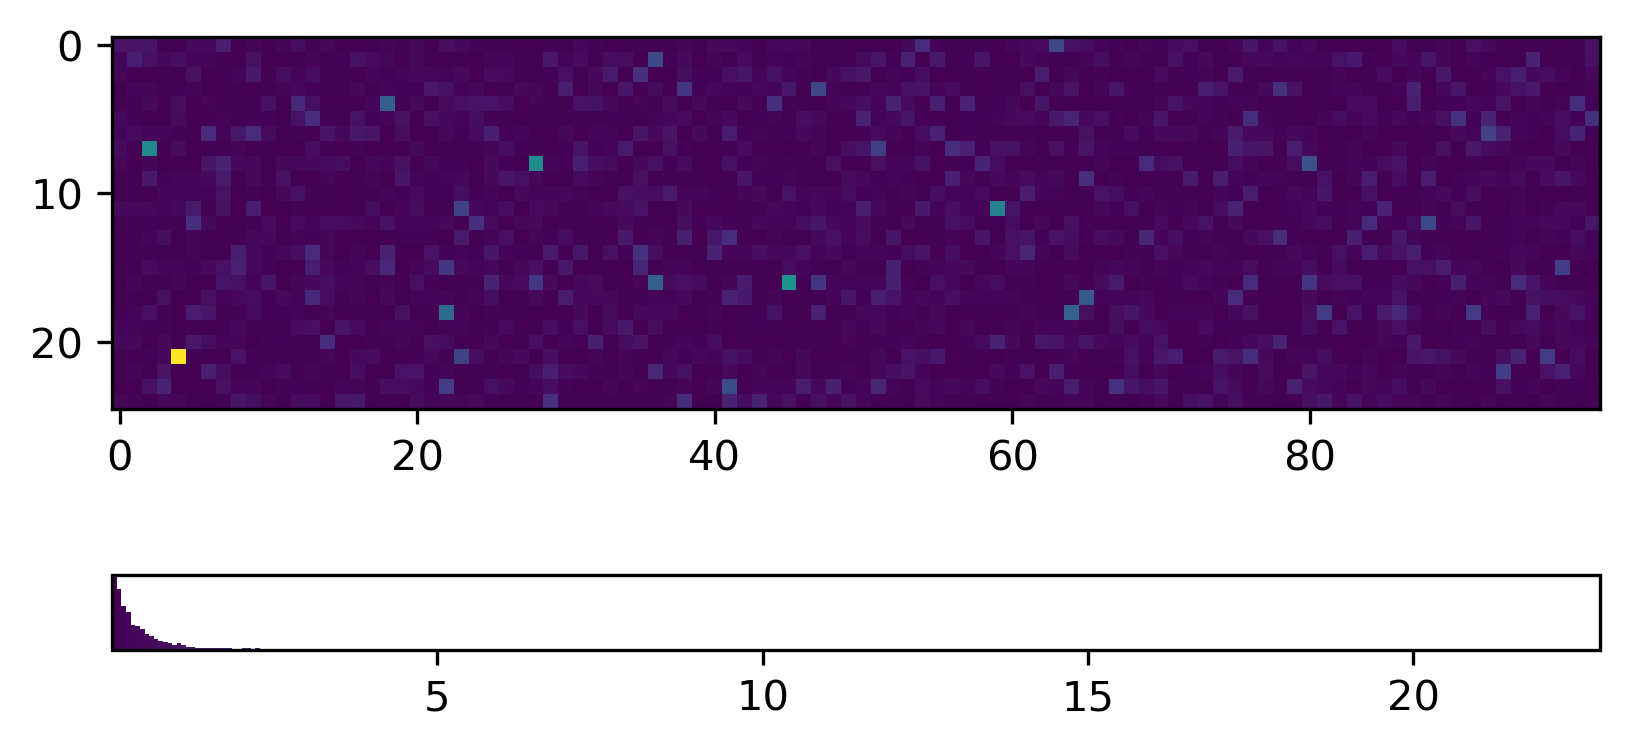
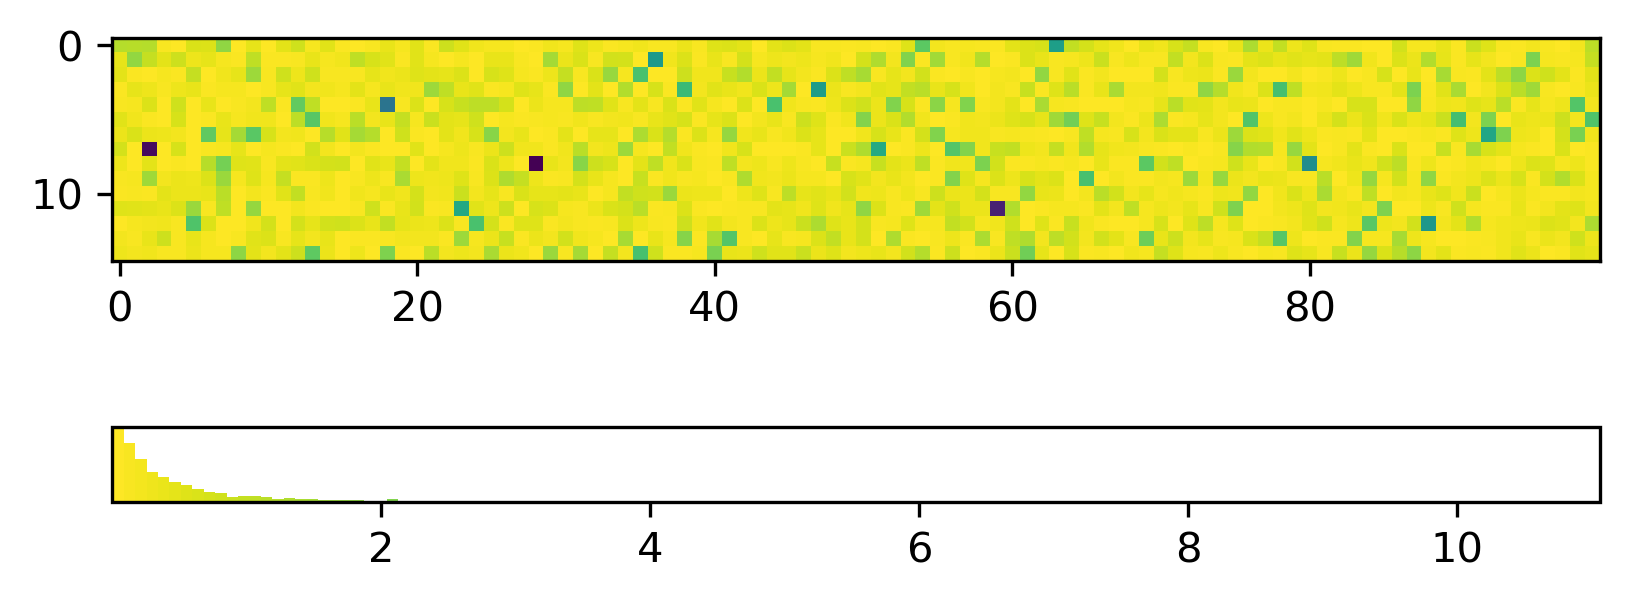
Reverse cmap in advanced usage examples

diff --git a/docs/usage.rst b/docs/usage.rst
@@ -18,11 +18,11 @@ spectrum of the colormap.
 
     # Generate some data
     rng = np.random.default_rng(seed=42)
-    data = rng.pareto(a=3, size=(25, 100))
+    data = rng.pareto(a=3, size=(15, 100))
 
     # Plot an image
     fig, ax = plt.subplots()
-    im = ax.imshow(data)
+    im = ax.imshow(data, cmap='viridis_r')
 
     # Add the HistColorbar
     hcb = histcolorbar(fig, im, location="bottom")
@@ -45,11 +45,11 @@ the :code:`hist_fraction` keyword argument. The default value is 0.5:
 
     # Generate some data
     rng = np.random.default_rng(seed=42)
-    data = rng.pareto(a=3, size=(25, 100))
+    data = rng.pareto(a=3, size=(15, 100))
 
     # Plot an image
     fig, ax = plt.subplots()
-    im = ax.imshow(data)
+    im = ax.imshow(data, cmap='viridis_r')
 
     # Add the HistColorbar
     hcb = histcolorbar(fig, im, location="bottom", separate_hist=True, hist_fraction=0.75)
@@ -69,17 +69,17 @@ an arbitrary solid color can be chosen for the histogram:
 
     # Generate some data
     rng = np.random.default_rng(seed=42)
-    data = rng.pareto(a=3, size=(25, 100))
+    data = rng.pareto(a=3, size=(15, 100))
 
     # Plot an image
     fig, ax = plt.subplots()
-    im = ax.imshow(data)
+    im = ax.imshow(data, cmap='viridis_r')
 
     # Add the HistColorbar
     hcb = histcolorbar(fig, im, location="bottom", separate_hist=True,
-                       hist_fraction=0.75, hist_color="red")
+                       hist_fraction=0.75, hist_color="black")
 
-.. image:: _static/pareto_example_with_cb_red.png
+.. image:: _static/pareto_example_with_cb_black.png
   :width: 800
   :alt: Example of a heavily weighted black histogram with a colorbar
 
